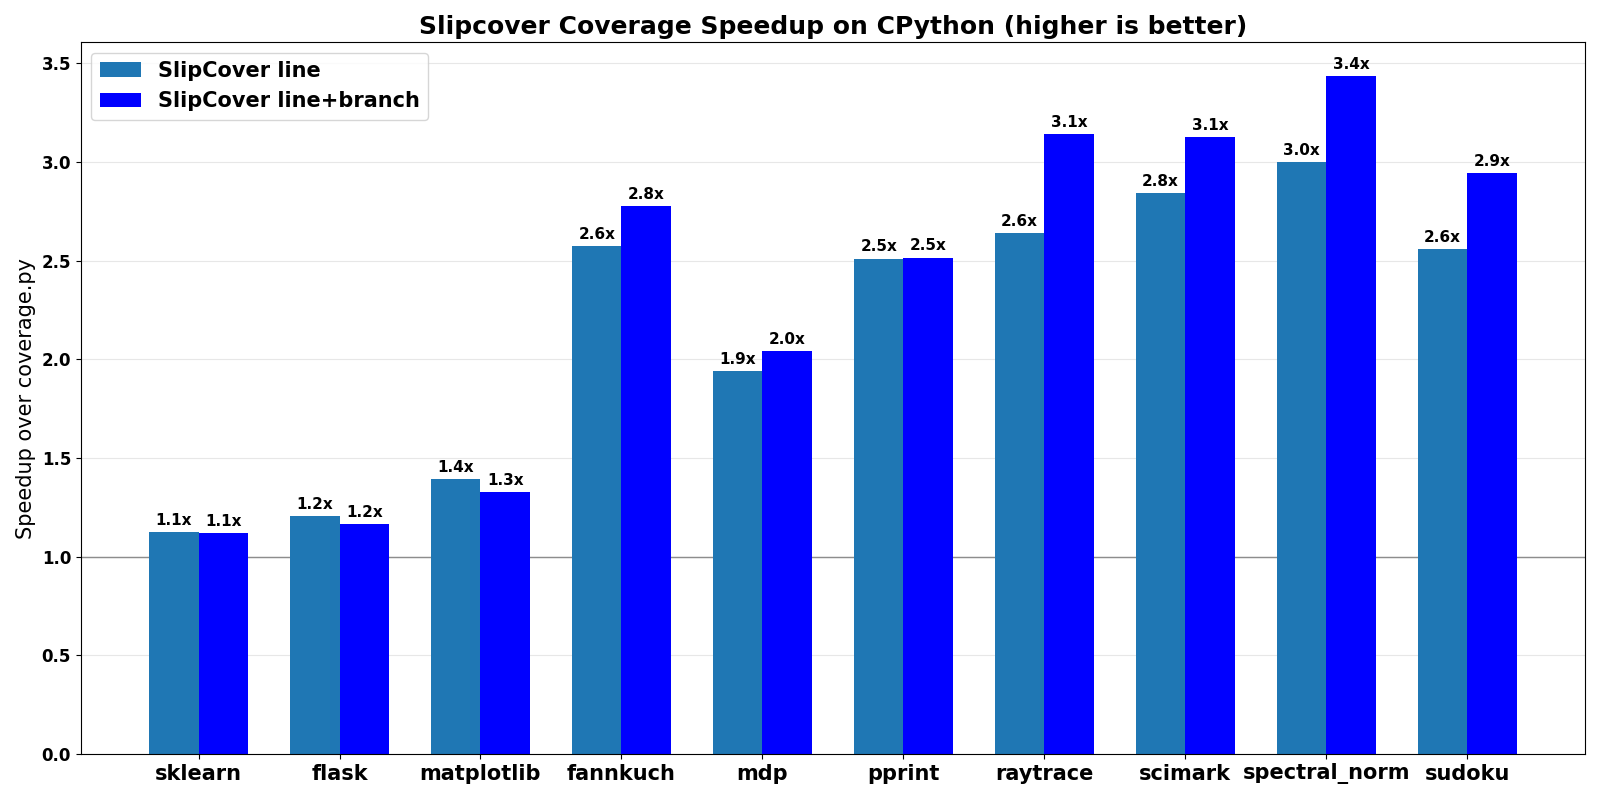
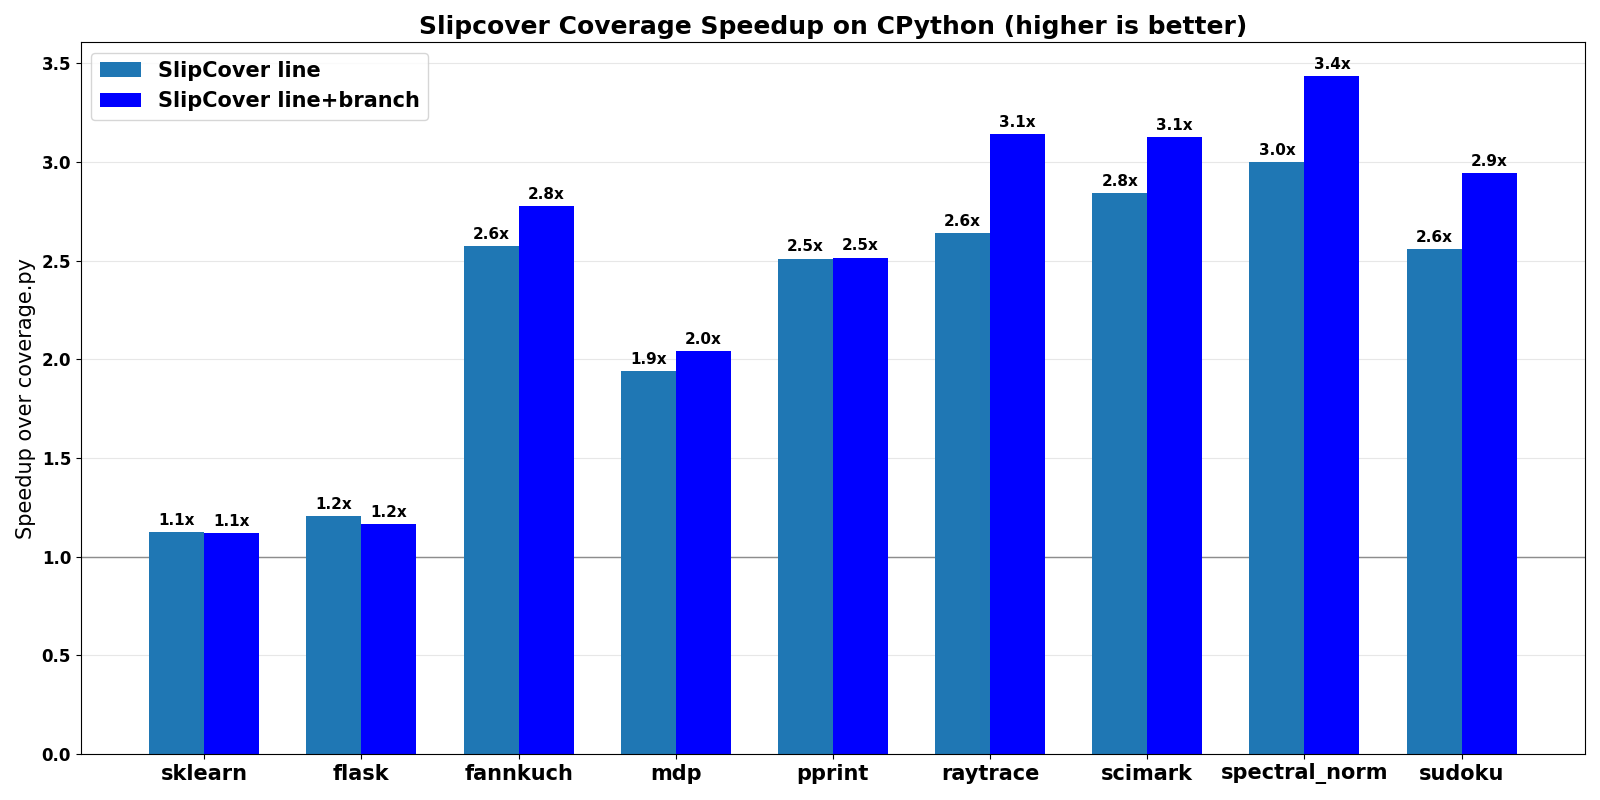
- fixed benchmark being included by accident;

diff --git a/benchmarks/benchmarks.py b/benchmarks/benchmarks.py
@@ -147,12 +147,12 @@ def parse_args():
     for p in [run, show, plot, latex]:
         p.add_argument('--case', choices=[c.name for c in cases] + ['all'],
                        action='append', help='select case(s) to run/plot')
+        p.add_argument('--omit-case', action='append', help='select case(s) to omit from run/plot')
         p.add_argument('--bench', choices=[b.name for b in benchmarks],
                        action='append', help='select benchmark(s) to run/plot')
+        p.add_argument('--omit-bench', action='append', help='select benchmark(s) to omit from run/plot')
 
     latex.add_argument('--absolute', action='store_true', help='emit absolute numbers')
-
-    run.add_argument('--no-sklearn', action='store_true', help="don't run sklearn benchmark")
 
     for p in [show, plot, latex]:
         p.add_argument('--os', type=str, help='select OS name (conflicts with --run)')
@@ -188,8 +188,13 @@ def parse_args():
     if not args.bench:
         args.bench = [b.name for b in benchmarks]
 
-    if args.cmd == 'run' and args.no_sklearn:
-        args.bench = list(filter(lambda b: b != 'sklearn', args.bench))
+    if args.omit_case:
+        for c in args.omit_case:
+            args.case.remove(c)
+
+    if args.omit_bench:
+        for b in args.omit_bench:
+            args.bench.remove(b)
 
     return args
 
